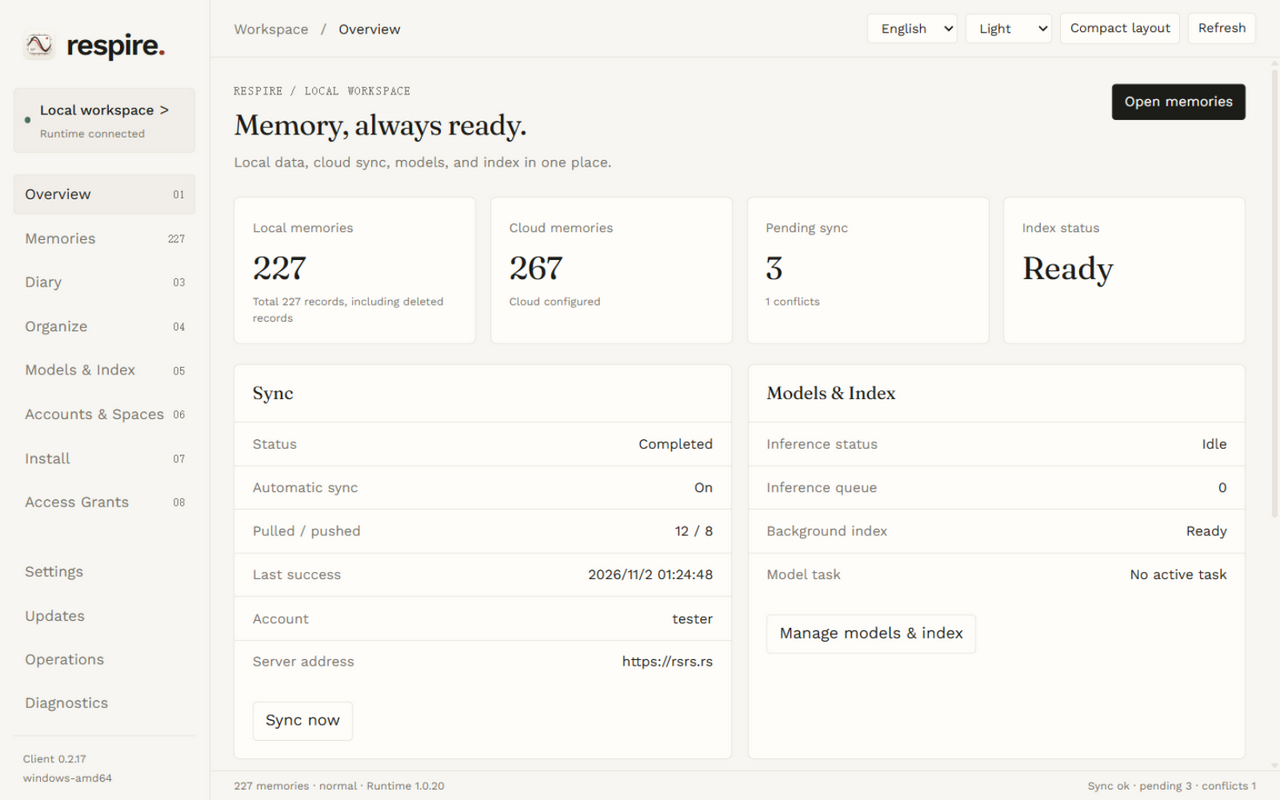
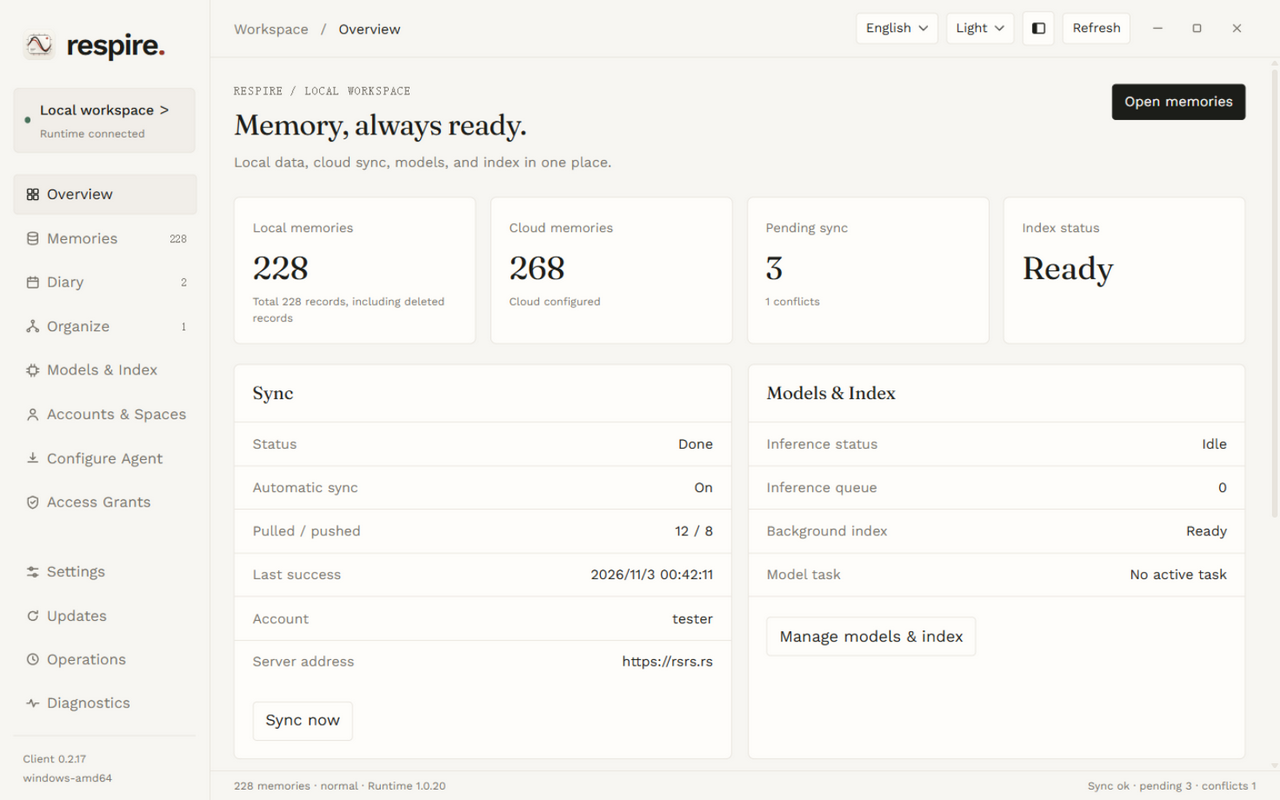
docs: refresh zh/en introductions and complete the screenshot gallery
Both READMEs now embed screenshots for every page (overview, memories,
graph, diary, organize, models, accounts, agents, grants, settings,
updates, operations, diagnostics) plus the tray quick panel, recaptured
from the current UI with the frameless window and drawn controls. The
feature lists cover the embedding model catalog, the frameless window
with focus mode and flicker-free refreshes, and the runtime version
required for multi-model switching.

diff --git a/README.md b/README.md
@@ -14,8 +14,10 @@ See [platform support](docs/platforms.md) for architectures, native-library prer
 - Sidebar layout or compact top navigation, plus Light / Dark / System themes, saved across restarts. The supplied light/dark artwork follows the theme in the UI, tray and native window.
 - Dashboard typography and paper/charcoal colors, with fonts embedded for offline use and their licenses included.
 - Runtime health, memory counts, synchronization, model tasks, inference queues and retrieval-index status over loopback HTTP RPC.
-- Memory tree/list, full reading, semantic recall, create/edit, move, merge, delete/restore, causal chains and subtree sharing. Merge follows the CLI contract: surviving children are promoted to surviving ancestors.
+- Frameless window with self-drawn window controls rendered identically on Windows/macOS/Linux: drag the topbar to move, double-click to maximize, 5px edge zones resize with directional cursors. The memory workspace has a one-click focus mode that fills the window, and background syncs refresh the reader without flicker.
+- Memory tree/list/graph, full reading, semantic recall, create/edit, move, merge, delete/restore, causal chains and subtree sharing. Merge follows the CLI contract: surviving children are promoted to surviving ancestors.
 - Diary calendar and fragment search; organization suggestions, similarity checks, audit, local repair preview, validated move plans and optional AI classification.
+- Built-in embedding model catalog: BGE-M3 (default), BGE-base-zh-v1.5 and BGE-M3-Distill-8L with multi-threaded downloads, SHA-256 verification, embedding-profile registration and CPU/GPU/NPU inference switching; mirrors cover the official source, China mirrors or a custom origin.
 - Model/index preparation, cancellation/restart, inference-engine and model-weight selection, provider installation, recall-service configuration and local/quality recall checks with a nine-round Benchmark.
 - Accounts, browser login, offline initialization, spaces, migration, synchronization settings, injection targets, native file selection and import/export/backup.
 - First-run Runtime download, SHA-256 validation, bounded archive extraction, complete native-library validation, start/stop and version updates.
@@ -34,9 +36,29 @@ Version `v0.2.2` recognizes an existing external CLI at `<root>/bin/rsrs[.exe]`,
 | --- | --- |
 | ![Overview](docs/screenshots/overview-en.png) | ![Memories](docs/screenshots/memories-en.png) |
 
-| Models & Index | Accounts & Spaces |
+| Memory graph | Diary |
 | --- | --- |
-| ![Models & Index](docs/screenshots/models-en.png) | ![Accounts & Spaces](docs/screenshots/accounts-en.png) |
+| ![Memory graph](docs/screenshots/graph-en.png) | ![Diary](docs/screenshots/diary-en.png) |
+
+| Organize | Models & Index |
+| --- | --- |
+| ![Organize](docs/screenshots/organize-en.png) | ![Models & Index](docs/screenshots/models-en.png) |
+
+| Accounts & Spaces | Configure Agents |
+| --- | --- |
+| ![Accounts & Spaces](docs/screenshots/accounts-en.png) | ![Configure Agents](docs/screenshots/injection-en.png) |
+
+| Access Grants | Settings |
+| --- | --- |
+| ![Access Grants](docs/screenshots/grants-en.png) | ![Settings](docs/screenshots/settings-en.png) |
+
+| Updates | Operations |
+| --- | --- |
+| ![Updates](docs/screenshots/updates-en.png) | ![Operations](docs/screenshots/operations-en.png) |
+
+Diagnostics:
+
+![Diagnostics](docs/screenshots/diagnostics-en.png)
 
 Tray quick panel:
 
@@ -171,7 +193,7 @@ An automatic switch is deferred while RPC work is executing or queued; the check
 
 The two channel selections and the layout are independent and persist in `preferences.json`. Switching channels saves the policy; it does not interrupt an ongoing operation or automatically downgrade an installed version. If the installed Dev version is ahead of Stable, it remains installed until Stable catches up. Apply an already downloaded client update before changing its channel. Runtime channel selection is disabled during a Runtime task. New native/RPC operations must preserve these rules.
 
-RPC requires protocol `v = 1`. Business actions use allowlisted `cli.exec` arguments; model/index preparation and recovery use the Runtime methods `model.prepare`, `model.control`, `index.prepare` and `runtime.result`. Unsupported commands and methods remain visible errors. The current business UI was exercised with CLI `1.0.17-dev.14`; do not assume the stable CLI has every optional feature.
+RPC requires protocol `v = 1`. Business actions use allowlisted `cli.exec` arguments; model/index preparation and recovery use the Runtime methods `model.prepare`, `model.control`, `index.prepare` and `runtime.result`. Multi-model switching uses `model.catalog`, `model.configure`, `model.switch` and `model.progress` (requires Runtime/CLI `1.0.20-dev.12` or newer). Unsupported commands and methods remain visible errors. The current business UI was exercised with CLI `1.0.17-dev.14` and later; do not assume the stable CLI has every optional feature.
 
 Writes keep one request ID. A lost receipt triggers a lookup of that original request, never an automatic replay. Full write receipts remain in memory during the session; after restart only metadata is retained. The verified CLI retains its last 64 completed requests in memory; an evicted receipt or a restarted Runtime can remain unknown, which is not proof that its write did not commit. Host actions with an unknown outcome must be checked on their corresponding page because Runtime cannot recover a host-process receipt. Configuration errors and missing model files are shown directly.
 
